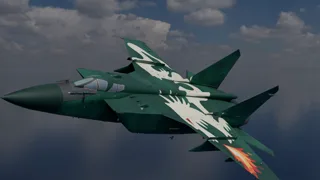
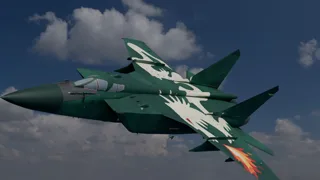
Воздушное превосходство: витрина — небо без размытой полосы (камера неба смотрит вверх, горизонт у нижнего края)

diff --git a/fortuna-bot-web/games/airdef/shop-ui.js b/fortuna-bot-web/games/airdef/shop-ui.js
@@ -33,7 +33,7 @@ const CSS = `
 #shopWin .ic { width: 1em; height: 1em; fill: currentColor; flex: none; display: inline-block; vertical-align: -0.14em; }
 #shopWin .gem { color: var(--jade); }
 #shopWin .sky { position: absolute; inset: -3%; z-index: -3; transform: translate(calc(var(--mx, 0) * -6px), calc(var(--my, 0) * -4px)); transition: transform .3s linear; }
-#shopWin .skyi { position: absolute; inset: 0; background: center / cover no-repeat; opacity: 0; transition: opacity 1s ease; animation: shpDrift 40s ease-in-out infinite alternate; }
+#shopWin .skyi { position: absolute; inset: 0; background: 50% 28% / cover no-repeat; /* горизонт у нижнего края кадра неба: широкий экран режет низ, а не облака */ opacity: 0; transition: opacity 1s ease; animation: shpDrift 40s ease-in-out infinite alternate; }
 #shopWin .skyi.on { opacity: 1; }
 @keyframes shpDrift { from { transform: scale(1.04) translateX(0); } to { transform: scale(1.1) translateX(-1.5%); } }
 #shopWin .hero { position: absolute; z-index: 2; left: var(--hx); top: var(--hy); width: var(--hw); height: calc(var(--hw) * .5625); pointer-events: none;

diff --git a/fortuna-bot-web/tools/airdef-models/shop-sky-render.py b/fortuna-bot-web/tools/airdef-models/shop-sky-render.py
@@ -4,13 +4,14 @@
 # длиннее) и небо без самолёта (объектив шире — панорама 8K остаётся чёткой); игра кладёт самолёт поверх неба.
 #   Blender -b --factory-startup --python tools/airdef-models/shop-sky-render.py -- <модель.glb> <окраска.png> <небо.hdr> <выход без расширения> [ключ=значение …]
 #   ключи: az (азимут камеры от носа к левому борту, °), el (подъём камеры, °), roll (крен к камере, °), pitch (тангаж, °), sun (солнце от камеры по азимуту, °),
-#   sky (яркость неба — свет на самолёт), fill (заполняющий свет), exp / skyexp (экспозиция слоя самолёта / неба), lens, w, h, spp
+#   sky (яркость неба — свет на самолёт), fill (заполняющий свет), exp / skyexp (экспозиция слоя самолёта / неба), skyup (насколько поднять взгляд
+#   камеры неба, °: под горизонтом у «чистого» неба только размытое отражение — Mark: «много места занимает размытая часть»), lens, w, h, spp
 import bpy, sys, math, mathutils
 import numpy as np
 
 a = sys.argv[sys.argv.index('--') + 1:]
 GLB, SKIN, HDR, OUT = a[:4]
-P = dict(az=34, el=4, roll=-38, pitch=6, sun=55, sky=1.0, fill=0.35, exp=0.0, skyexp=-1.2, lens=62, w=1920, h=1080, spp=128)
+P = dict(az=34, el=4, roll=-38, pitch=6, sun=55, sky=1.0, fill=0.35, exp=0.0, skyexp=-1.2, skyup=17, lens=62, w=1920, h=1080, spp=128)
 for kv in a[4:]:
     k, v = kv.split('='); P[k] = float(v)
 
@@ -86,6 +87,7 @@ sc.render.filepath = OUT + '_plane.png'; bpy.ops.render.render(write_still=True)
 # слой 2: небо без самолёта, шире и крупнее — фон на весь экран
 for o in meshes: o.hide_render = True
 cam.data.lens = 24
+cam.matrix_world = cam.matrix_world @ mathutils.Matrix.Rotation(math.radians(P['skyup']), 4, 'X')  # взгляд вверх: горизонт — у нижнего края, кадр — облака
 sc.render.resolution_x, sc.render.resolution_y = 2560, 1440
 sc.cycles.samples = 16; sc.render.film_transparent = False; sc.view_settings.exposure = P['skyexp']  # панорама ярче, чем её превью: без поправки небо белёсое
 sc.render.image_settings.color_mode = 'RGB'

diff --git a/fortuna-bot-web/AIRDEF_STATE.md b/fortuna-bot-web/AIRDEF_STATE.md
@@ -744,3 +744,6 @@ Mark работает с **Opus на высоком усилии** — он ру
   самолёт (прозрачный, объектив 62 мм) и небо (24 мм, панорама остаётся чёткой); в игре — <ключ>.webp (самолёт), _sky.webp (небо), _s.webp (карточка).
   Параметры: «Инферно» sun=100 skyexp=-1.8 fill=0.5; дракон sun=55 skyexp=-0.9 exp=0.4 fill=0.7. Смена окраски: небо — плавно, самолёт уходит влево, новый
   влетает справа. F-15E — у сессии сборщика на доработке (кабина, звёздочка, переименование в «Инферно») — после неё перерендерить «Инферно» тем же сценарием.
+- 2026-10-26 · Opus 5.5 · витрина: Mark — «много места занимает размытая часть» (низ «чистой» панорамы — размытое отражение под горизонтом): камера неба смотрит
+  вверх на 22° (shop-sky-render.py skyup), горизонт — у нижнего края под плитками; фон кадрируется по 50% 28% (широкий экран режет низ). Слой самолёта
+  «Инферно» — прежний (F-15E у сборщика на доработке; после неё — перерендер: sun=100 skyexp=-1.8 fill=0.5 skyup=22).
